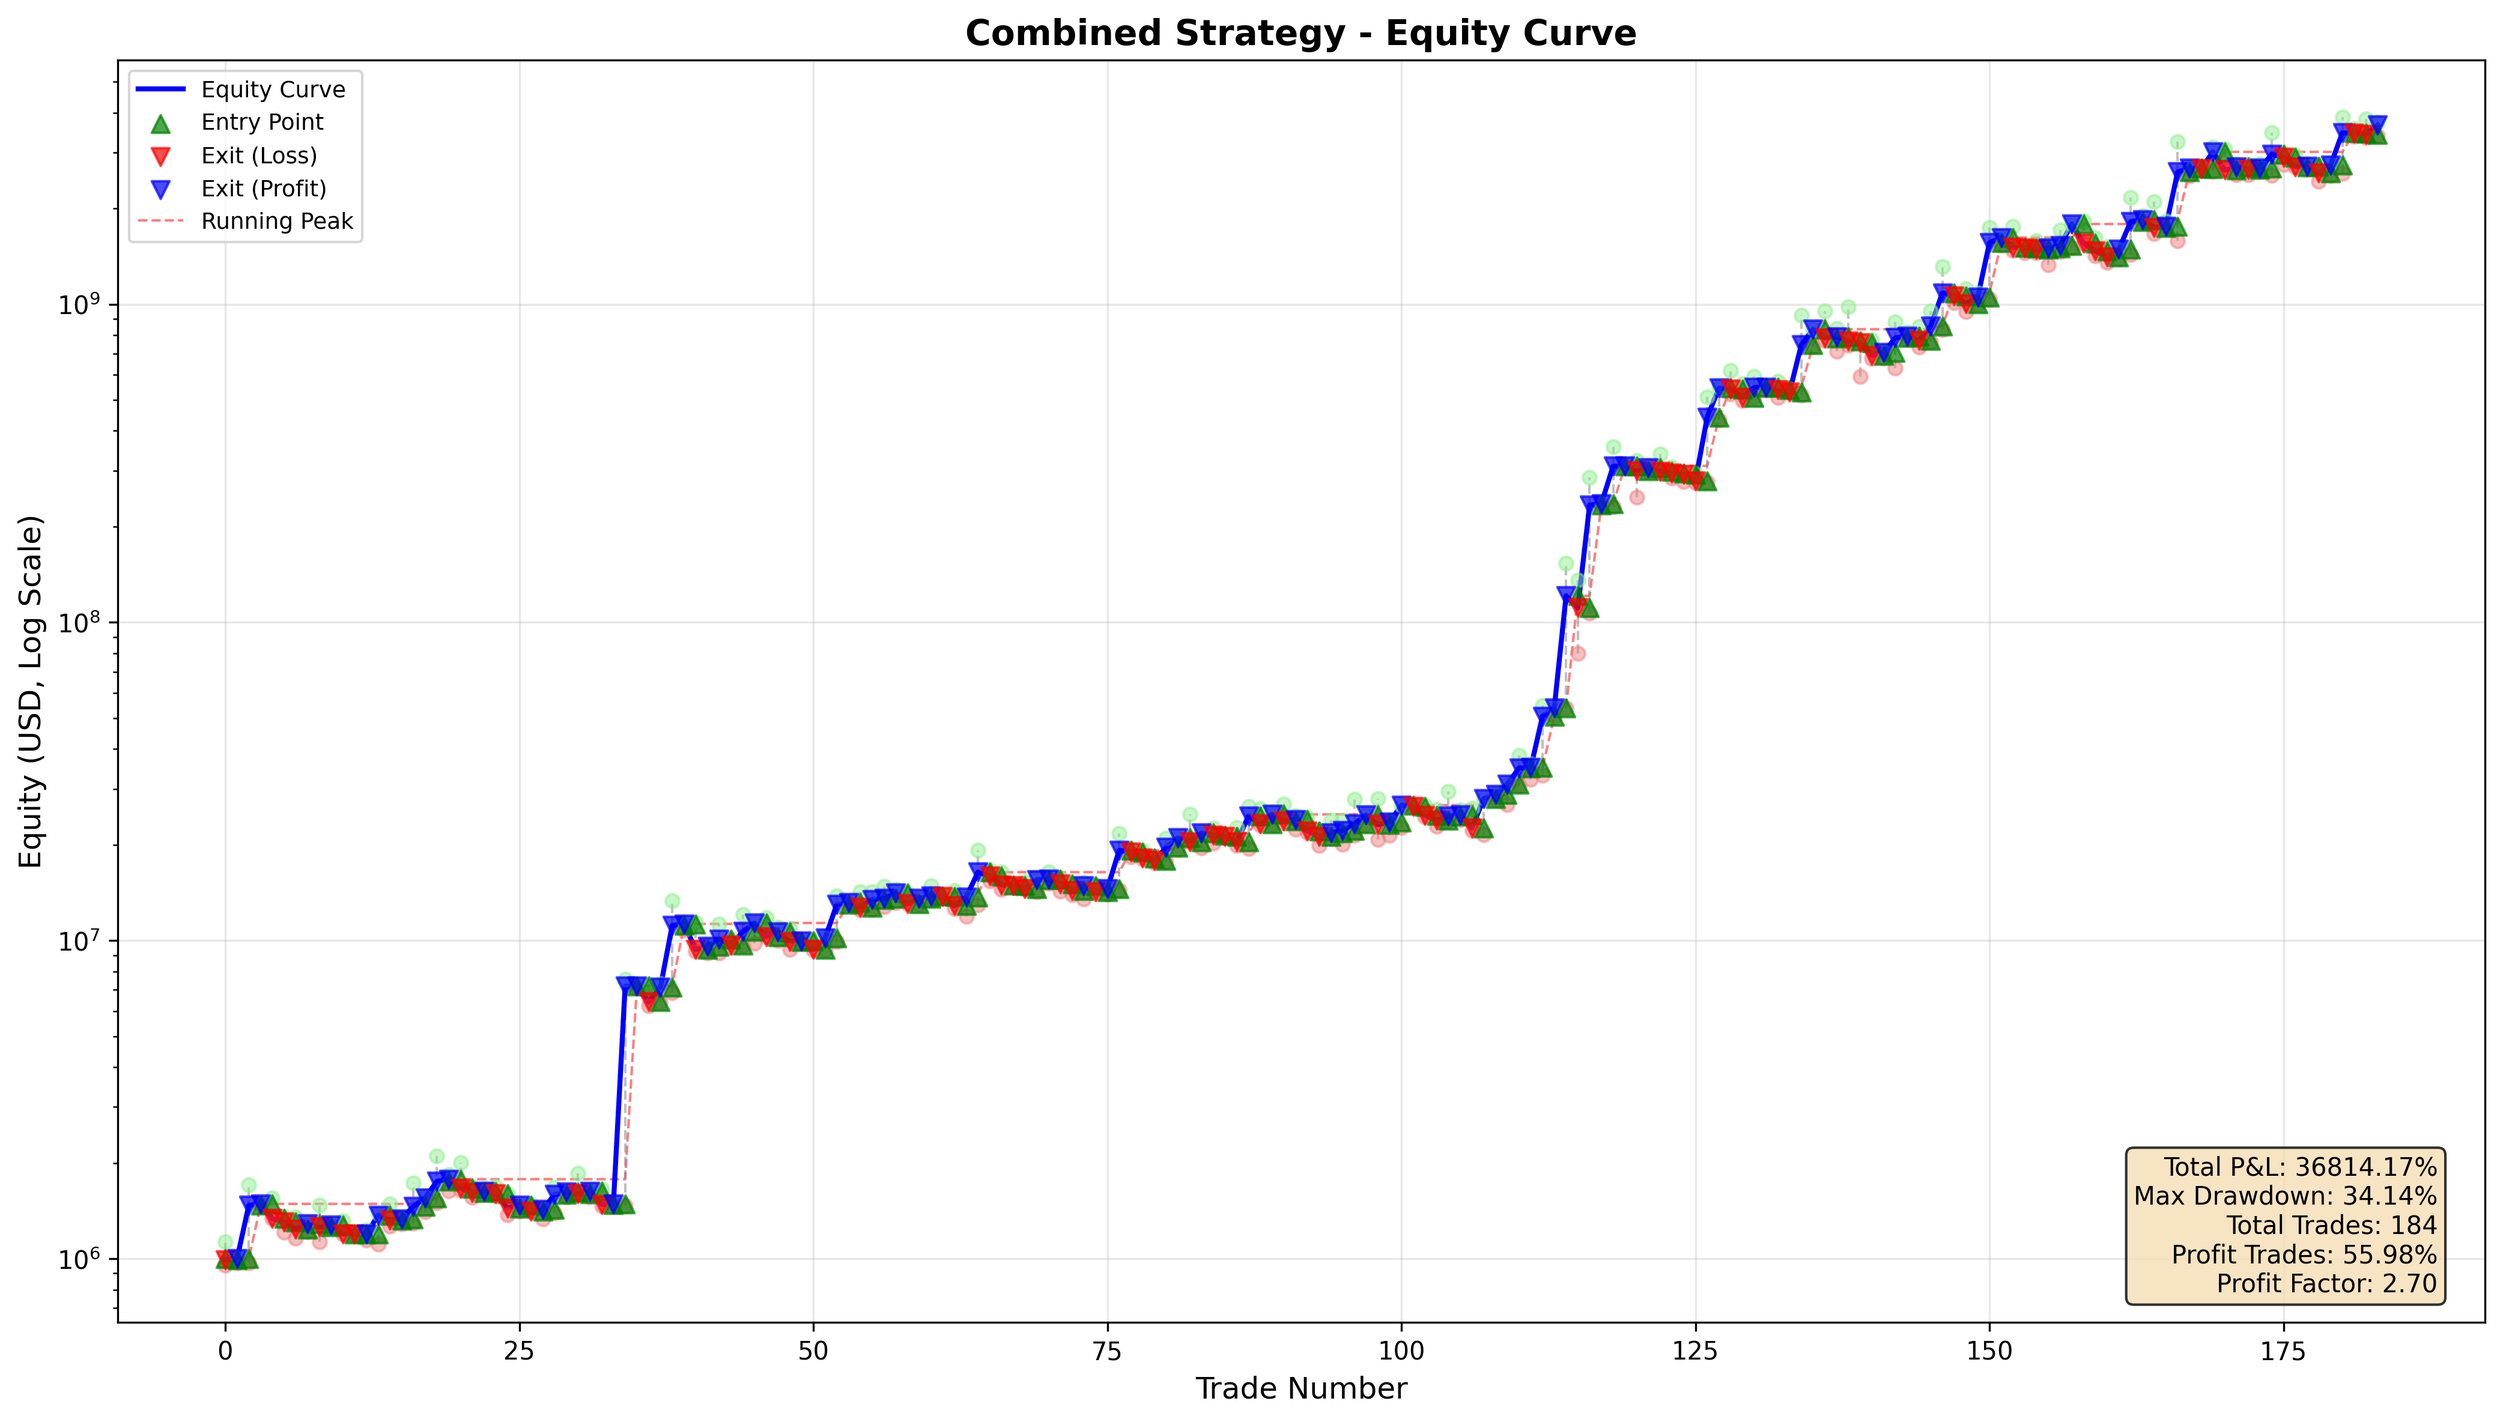
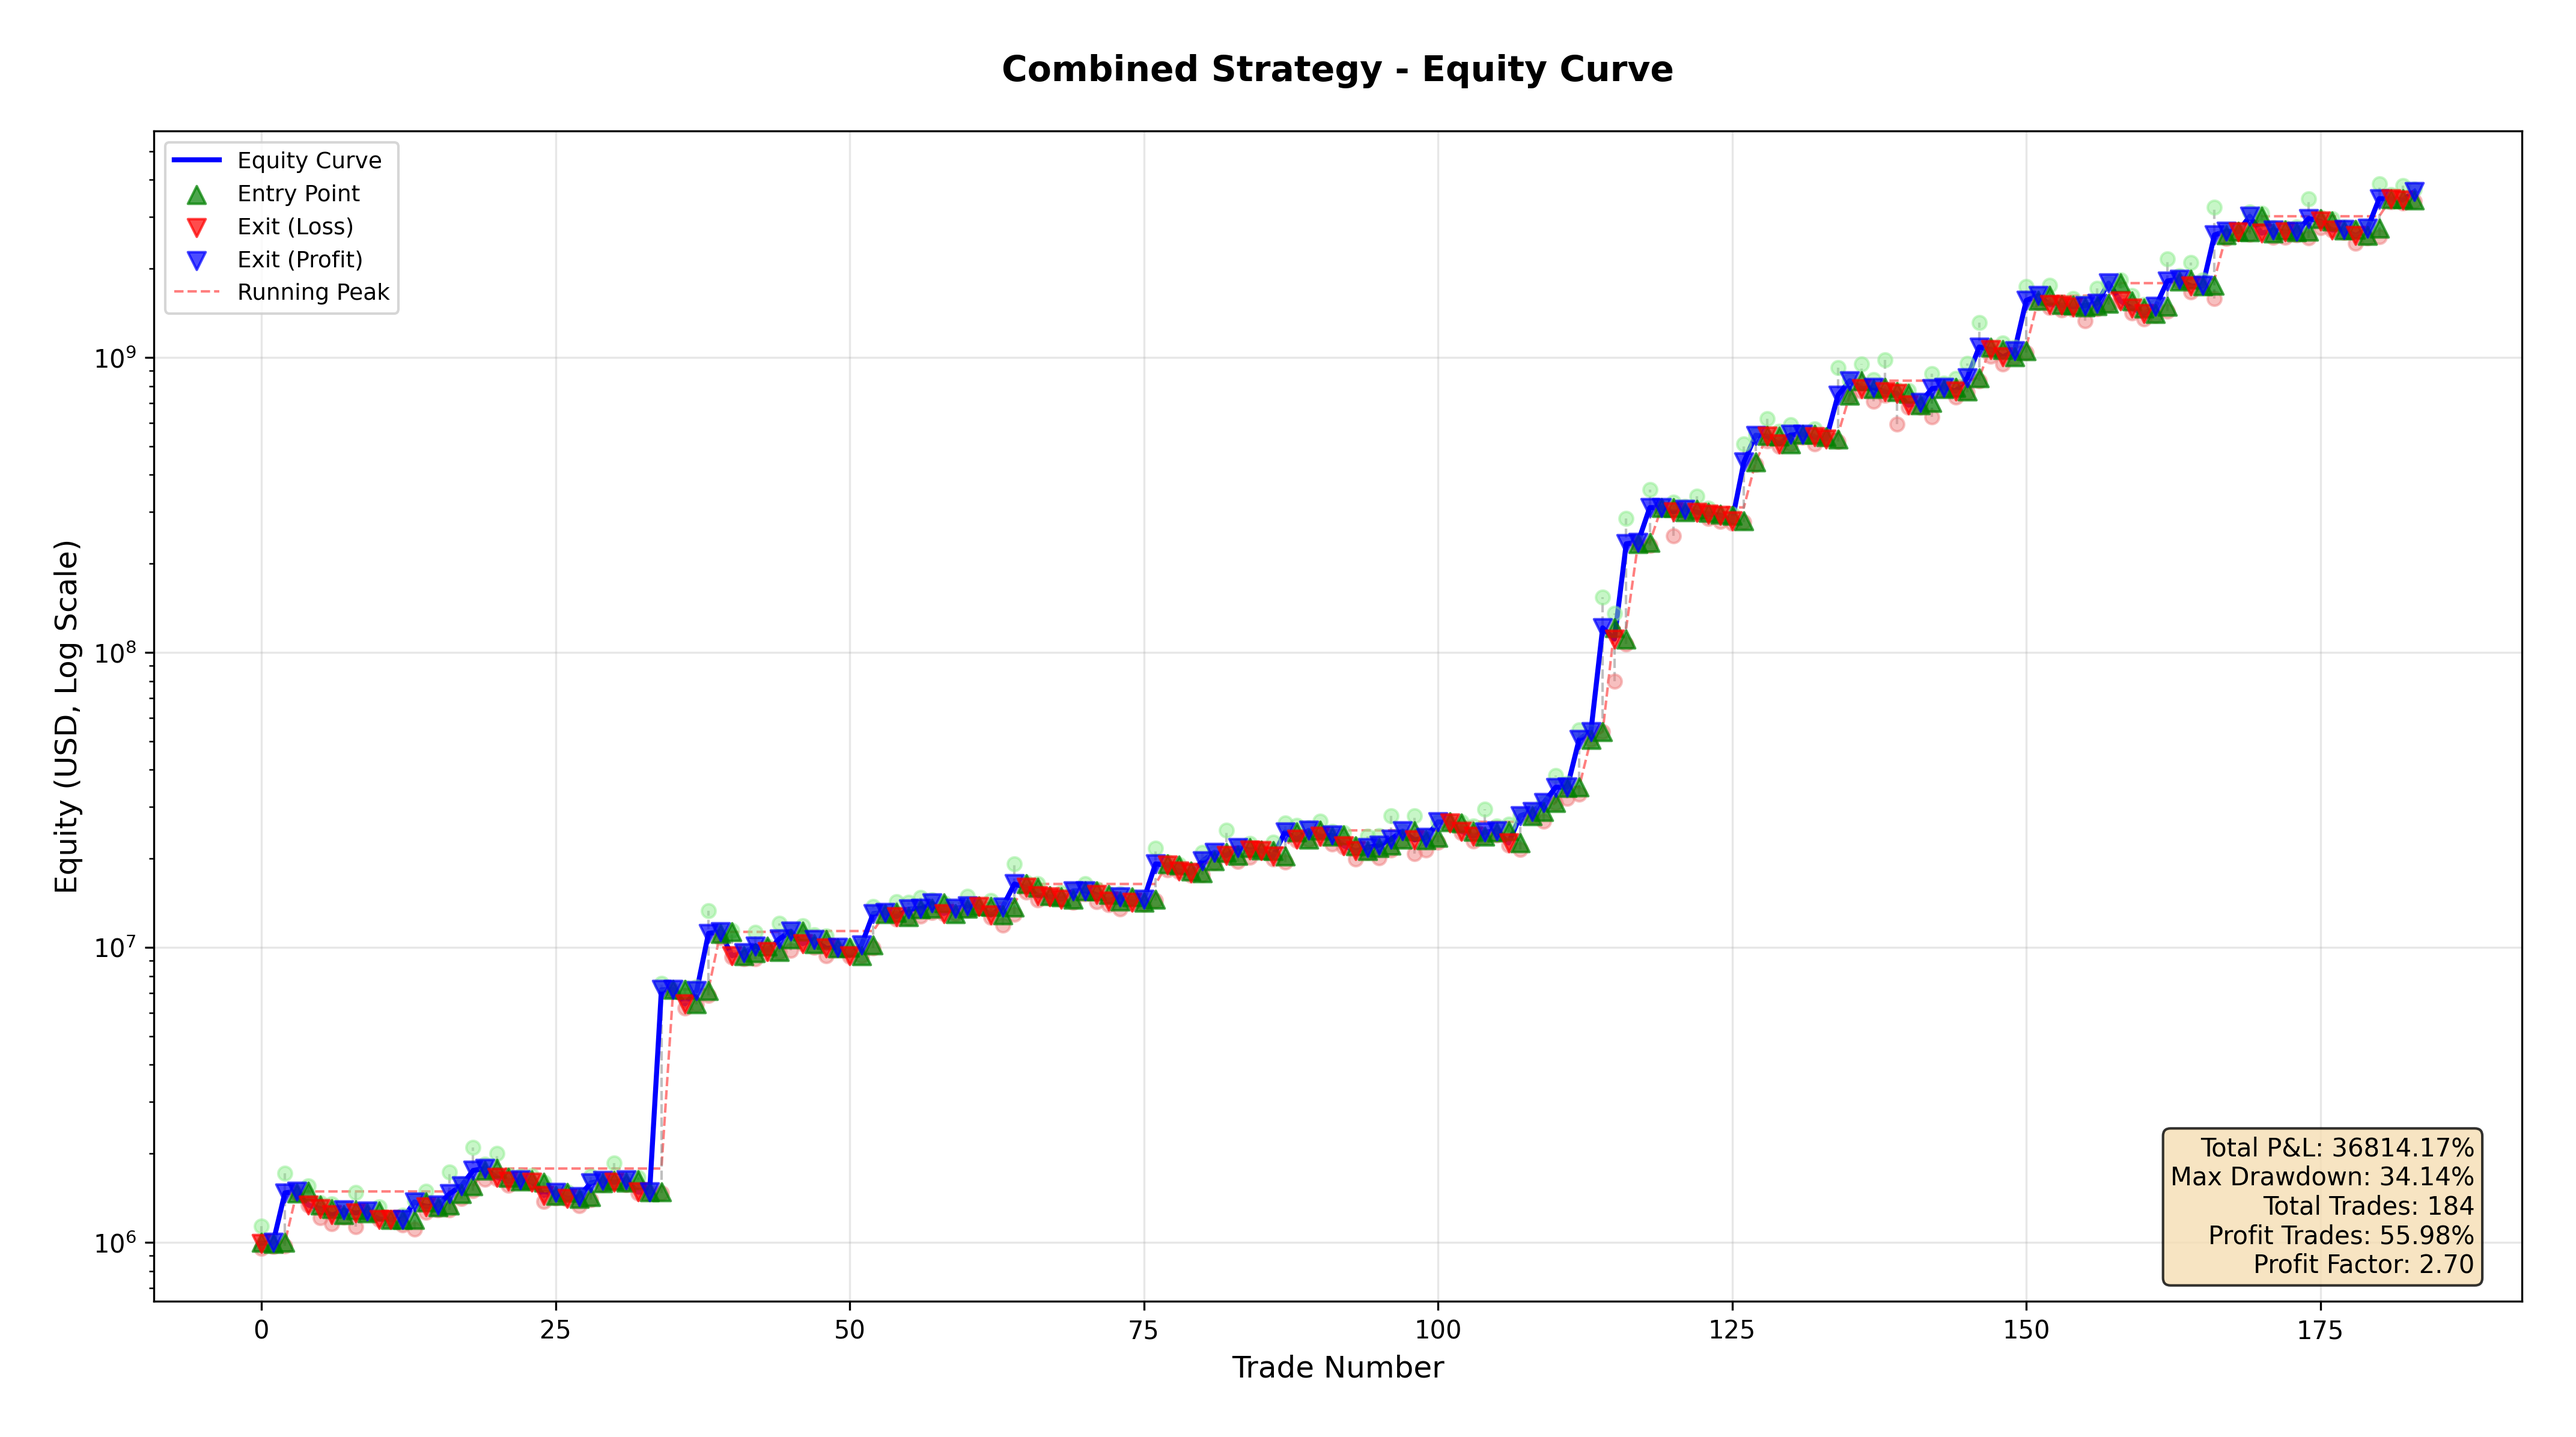
Update images.

diff --git a/calculate_tsla_ma530_and_reverse_tsla.py b/calculate_tsla_ma530_and_reverse_tsla.py
@@ -164,7 +164,7 @@ def plot_equity_curve(df, title="Equity Curve"):
     # 设置标签和标题
     ax.set_xlabel('Trade Number', fontsize=12)
     ax.set_ylabel(ylabel, fontsize=12)
-    ax.set_title(title, fontsize=14, fontweight='bold')
+    ax.set_title(title, fontsize=14, fontweight='bold', pad=20)  # 增加标题的上边距
     ax.grid(True, alpha=0.3)
     
     # 图例放在左上角，避免与统计信息框重叠
@@ -174,7 +174,8 @@ def plot_equity_curve(df, title="Equity Curve"):
     if not use_log_scale:
         ax.yaxis.set_major_formatter(plt.FuncFormatter(lambda x, p: f'${x/1000:.0f}K'))
     
-    plt.tight_layout()
+    # 调整布局，确保标题完全显示
+    plt.tight_layout(rect=[0, 0, 1, 0.96])  # 留出顶部空间给标题
     return fig
 
 
@@ -316,17 +317,20 @@ def merge_alternating_trades(file_a_path, file_b_path):
     print("\n--- 生成图表 ---")
     # 绘制综合整体图表
     fig1 = plot_equity_curve(combined_df, title="Combined Strategy - Equity Curve")
-    plt.savefig('combined_strategy_equity_curve.png', dpi=300, bbox_inches='tight')
+    plt.savefig('combined_strategy_equity_curve.png', dpi=300, bbox_inches='tight', pad_inches=0.3)
+    plt.close(fig1)
     print("已保存: combined_strategy_equity_curve.png")
     
     # 绘制A策略图表
     fig2 = plot_equity_curve(df_a_subset, title="buy tsla on ma530 strategy - Equity Curve")
-    plt.savefig('strategy_A_equity_curve.png', dpi=300, bbox_inches='tight')
+    plt.savefig('strategy_A_equity_curve.png', dpi=300, bbox_inches='tight', pad_inches=0.3)
+    plt.close(fig2)
     print("已保存: strategy_A_equity_curve.png")
     
     # 绘制B策略图表
     fig3 = plot_equity_curve(df_b_subset, title="buy azo on sell tsla on ma530 strategy - Equity Curve")
-    plt.savefig('strategy_B_equity_curve.png', dpi=300, bbox_inches='tight')
+    plt.savefig('strategy_B_equity_curve.png', dpi=300, bbox_inches='tight', pad_inches=0.3)
+    plt.close(fig3)
     print("已保存: strategy_B_equity_curve.png")
     
     # 显示图表（可选，如果不需要显示可以注释掉）
